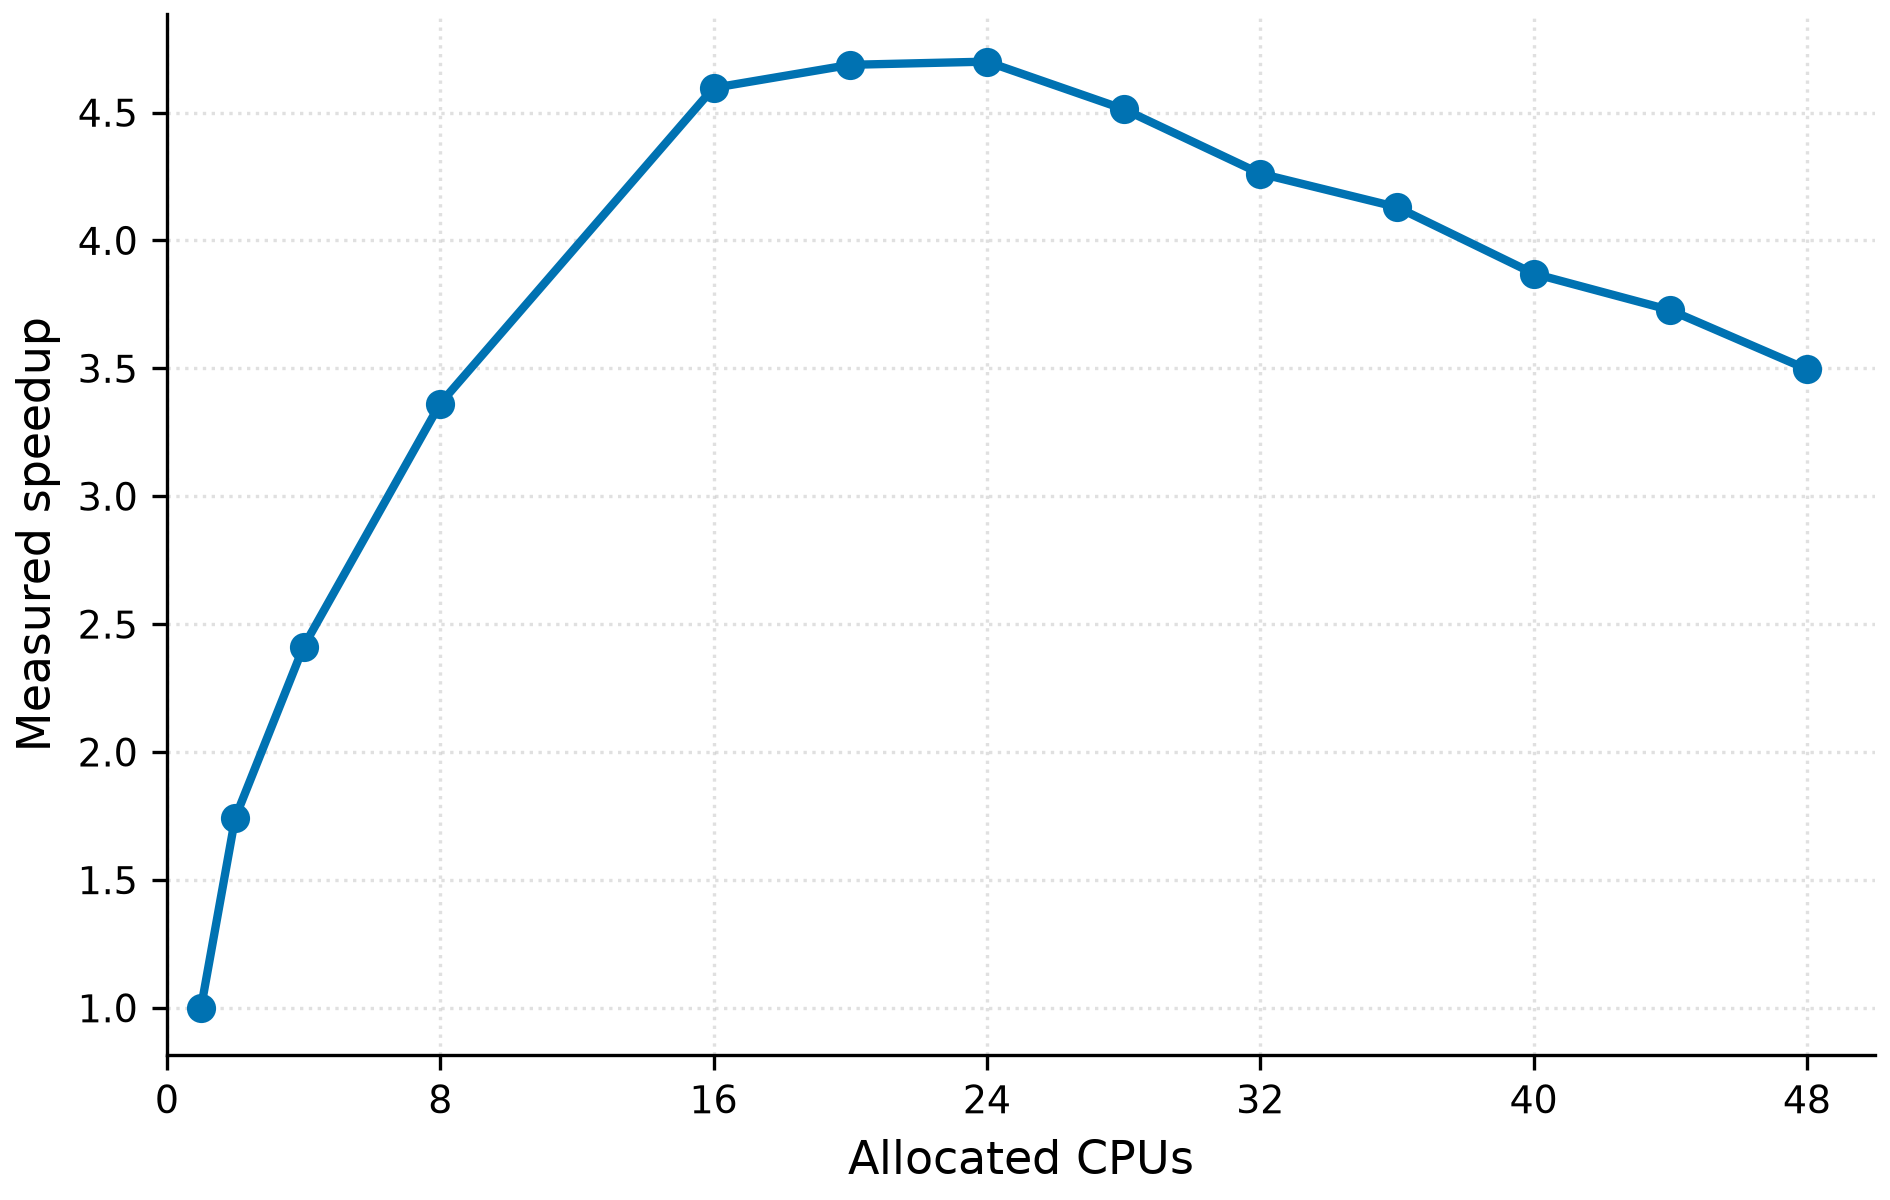
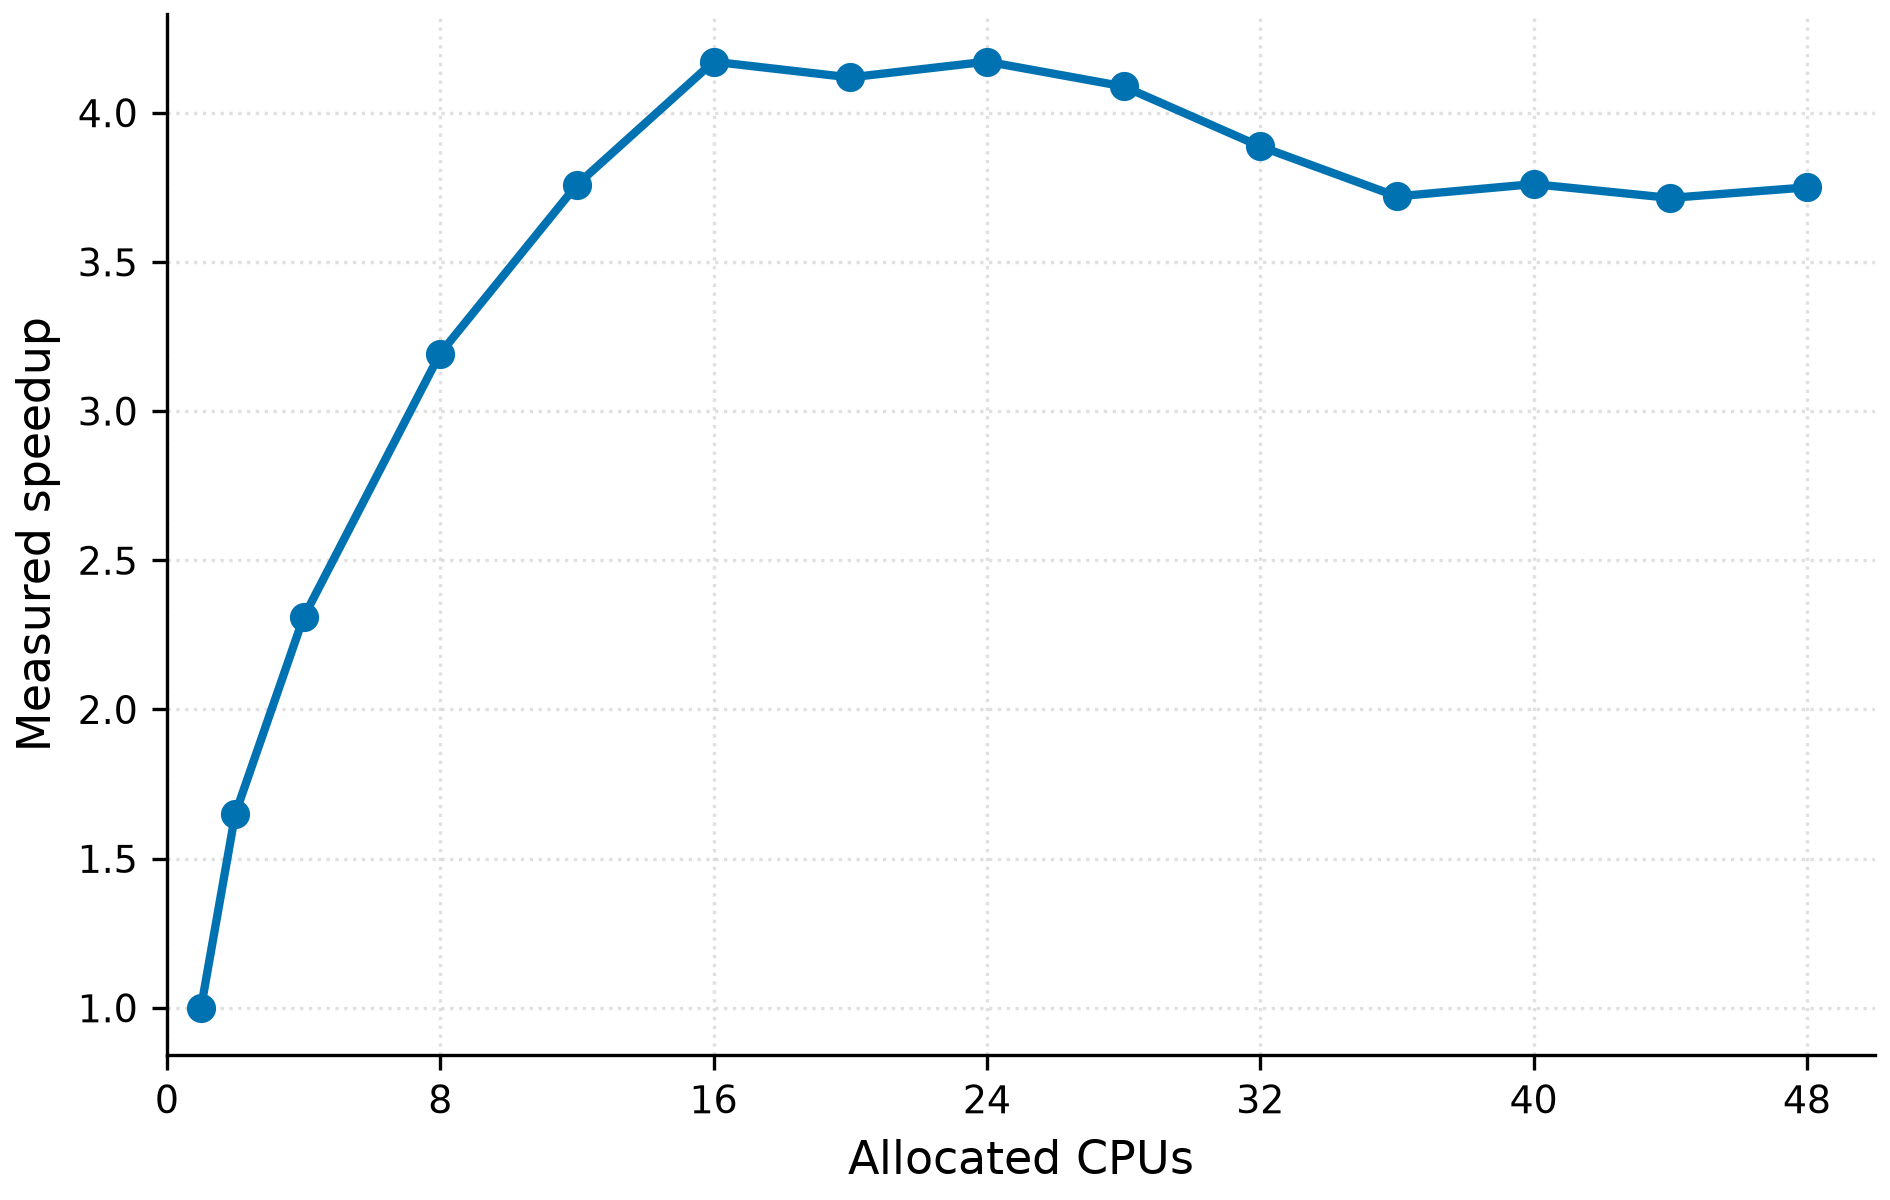
Improve benchmark results for thread scaling

diff --git a/benchmarks/dimensional_workload/plot_results.py b/benchmarks/dimensional_workload/plot_results.py
@@ -70,7 +70,7 @@ def main() -> None:
         times,
         width=width,
         color=BLUE,
-        label="Fitting time",
+        label="Estimated fitting time",
     )
     matrix_bars = matrix_axis.bar(
         matrix_positions,
@@ -82,7 +82,7 @@ def main() -> None:
 
     time_axis.set(
         xlabel="Number of variables",
-        ylabel="Sequential fitting time (minutes)",
+        ylabel="Estimated fitting time (minutes)",
         xticks=variables,
         yscale="log",
     )

diff --git a/benchmarks/pyvinecopulib_thread_scaling/benchmark.py b/benchmarks/pyvinecopulib_thread_scaling/benchmark.py
@@ -19,7 +19,7 @@ RAW_RESULTS_FILE = HERE / "results" / "thread_timings.csv"
 SUMMARY_FILE = HERE / "results" / "thread_summary.csv"
 
 COLUMNS = slice(0, 8)
-THREADS = [1, 2, 4, 8, 16, 20, 24, 28, 32, 36, 40, 44, 48]
+THREADS = [1, 2, 4, 8, 12, 16, 20, 24, 28, 32, 36, 40, 44, 48]
 REPETITIONS = 7
 RANDOM_SEED = 42
 
